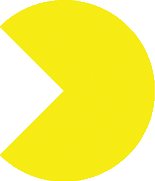
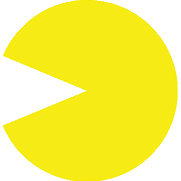
e

diff --git a/PacMan/Form1.cs b/PacMan/Form1.cs
@@ -21,7 +21,8 @@ namespace PacMan
         int Speed = 3;
         int pSpeed = 3;
         int rSpeed = 3;
-        bool u = false; bool d = false; bool l = false; bool r = false;      
+        bool u = false; bool d = false; bool l = false; bool r = false;
+        bool ui = false; bool di = false; bool li = false; bool ri = false;
         bool pu = false; bool pd = false; bool pl = false; bool pr = false;
         bool ru = false; bool rd = false; bool rl = false; bool rr = false;
         bool bu = false; bool bd = false; bool bl = false; bool br = false;
@@ -51,30 +52,93 @@ namespace PacMan
             rx = Blinky.Location.X;
             ry = Blinky.Location.Y;
             #region Animation
-            if (p==3)
+            if (ui == true)
             {
-                Player.Image = Properties.Resources.PacMan2;
+                if (p == 3)
+                {
+                    Player.Image = Properties.Resources.PacManU2;
+                }
+                else if (p == 6)
+                {
+                    Player.Image = Properties.Resources.PacManL1;
+                }
+                else if (p == 9)
+                {
+                    Player.Image = Properties.Resources.PacMan3;
+                }
+                else if (p == 12)
+                {
+                    Player.Image = Properties.Resources.PacManL1;
+                    p = 0;
+                }
             }
-            else if (p == 6)
+            if (di == true)
             {
-                Player.Image = Properties.Resources.PacMan1;
+                if (p == 3)
+                {
+                    Player.Image = Properties.Resources.PacManD2;
+                }
+                else if (p == 6)
+                {
+                    Player.Image = Properties.Resources.PacManL1;
+                }
+                else if (p == 9)
+                {
+                    Player.Image = Properties.Resources.PacMan3;
+                }
+                else if (p == 12)
+                {
+                    Player.Image = Properties.Resources.PacManL1;
+                    p = 0;
+                }
             }
-            else if (p == 9)
+            if (li == true)
             {
-                Player.Image = Properties.Resources.PacMan3;
+                if (p == 3)
+                {
+                    Player.Image = Properties.Resources.PacManL2;
+                }
+                else if (p == 6)
+                {
+                    Player.Image = Properties.Resources.PacManL1;
+                }
+                else if (p == 9)
+                {
+                    Player.Image = Properties.Resources.PacMan3;
+                }
+                else if (p == 12)
+                {
+                    Player.Image = Properties.Resources.PacManL1;
+                    p = 0;
+                }
             }
-            else if (p == 12)
+            if (ri == true)
             {
-                Player.Image = Properties.Resources.PacMan1;
-                p = 0;
+                if (p == 3)
+                {
+                    Player.Image = Properties.Resources.PacManR2;
+                }
+                else if (p == 6)
+                {
+                    Player.Image = Properties.Resources.PacManL1;
+                }
+                else if (p == 9)
+                {
+                    Player.Image = Properties.Resources.PacMan3;
+                }
+                else if (p == 12)
+                {
+                    Player.Image = Properties.Resources.PacManL1;
+                    p = 0;
+                }
             }
             p++;
             #endregion
             #region Movement
-            if (u) { Player.Top -= Speed; }
-            if (d) { Player.Top += Speed; }
-            if (l) { Player.Left -= Speed; }
-            if (r) { Player.Left += Speed; }
+            if (u) { Player.Top -= Speed; ui = true; di = false; li = false; ri = false;}
+            else if (d) { Player.Top += Speed; ui = false; di = true; li = false; ri = false; }
+            else if (l) { Player.Left -= Speed; ui = false; di = false; li = true; ri = false; }
+            else if (r) { Player.Left += Speed; ui = false; di = false; li = false; ri = true; }
             #endregion
             #region Ghost Movement
             PinkGhost();

diff --git a/PacMan/Properties/Resources.Designer.cs b/PacMan/Properties/Resources.Designer.cs
@@ -19,7 +19,7 @@ namespace PacMan.Properties {
     // class via a tool like ResGen or Visual Studio.
     // To add or remove a member, edit your .ResX file then rerun ResGen
     // with the /str option, or rebuild your VS project.
-    [global::System.CodeDom.Compiler.GeneratedCodeAttribute("System.Resources.Tools.StronglyTypedResourceBuilder", "17.0.0.0")]
+    [global::System.CodeDom.Compiler.GeneratedCodeAttribute("System.Resources.Tools.StronglyTypedResourceBuilder", "16.0.0.0")]
     [global::System.Diagnostics.DebuggerNonUserCodeAttribute()]
     [global::System.Runtime.CompilerServices.CompilerGeneratedAttribute()]
     internal class Resources {
@@ -83,29 +83,59 @@ namespace PacMan.Properties {
         /// <summary>
         ///   Looks up a localized resource of type System.Drawing.Bitmap.
         /// </summary>
-        internal static System.Drawing.Bitmap PacMan1 {
-            get {
-                object obj = ResourceManager.GetObject("PacMan1", resourceCulture);
-                return ((System.Drawing.Bitmap)(obj));
-            }
-        }
-        
-        /// <summary>
-        ///   Looks up a localized resource of type System.Drawing.Bitmap.
-        /// </summary>
-        internal static System.Drawing.Bitmap PacMan2 {
-            get {
-                object obj = ResourceManager.GetObject("PacMan2", resourceCulture);
-                return ((System.Drawing.Bitmap)(obj));
-            }
-        }
-        
-        /// <summary>
-        ///   Looks up a localized resource of type System.Drawing.Bitmap.
-        /// </summary>
         internal static System.Drawing.Bitmap PacMan3 {
             get {
                 object obj = ResourceManager.GetObject("PacMan3", resourceCulture);
+                return ((System.Drawing.Bitmap)(obj));
+            }
+        }
+        
+        /// <summary>
+        ///   Looks up a localized resource of type System.Drawing.Bitmap.
+        /// </summary>
+        internal static System.Drawing.Bitmap PacManD2 {
+            get {
+                object obj = ResourceManager.GetObject("PacManD2", resourceCulture);
+                return ((System.Drawing.Bitmap)(obj));
+            }
+        }
+        
+        /// <summary>
+        ///   Looks up a localized resource of type System.Drawing.Bitmap.
+        /// </summary>
+        internal static System.Drawing.Bitmap PacManL1 {
+            get {
+                object obj = ResourceManager.GetObject("PacManL1", resourceCulture);
+                return ((System.Drawing.Bitmap)(obj));
+            }
+        }
+        
+        /// <summary>
+        ///   Looks up a localized resource of type System.Drawing.Bitmap.
+        /// </summary>
+        internal static System.Drawing.Bitmap PacManL2 {
+            get {
+                object obj = ResourceManager.GetObject("PacManL2", resourceCulture);
+                return ((System.Drawing.Bitmap)(obj));
+            }
+        }
+        
+        /// <summary>
+        ///   Looks up a localized resource of type System.Drawing.Bitmap.
+        /// </summary>
+        internal static System.Drawing.Bitmap PacManR2 {
+            get {
+                object obj = ResourceManager.GetObject("PacManR2", resourceCulture);
+                return ((System.Drawing.Bitmap)(obj));
+            }
+        }
+        
+        /// <summary>
+        ///   Looks up a localized resource of type System.Drawing.Bitmap.
+        /// </summary>
+        internal static System.Drawing.Bitmap PacManU2 {
+            get {
+                object obj = ResourceManager.GetObject("PacManU2", resourceCulture);
                 return ((System.Drawing.Bitmap)(obj));
             }
         }

diff --git a/PacMan/Form1.Designer.cs b/PacMan/Form1.Designer.cs
@@ -160,8 +160,8 @@ namespace PacMan
             this.Player.BackColor = System.Drawing.Color.Transparent;
             this.Player.BackgroundImage = ((System.Drawing.Image)(resources.GetObject("Player.BackgroundImage")));
             this.Player.BackgroundImageLayout = System.Windows.Forms.ImageLayout.Zoom;
-            this.Player.Image = global::PacMan.Properties.Resources.PacMan1;
-            this.Player.Location = new System.Drawing.Point(520, 324);
+            this.Player.Image = global::PacMan.Properties.Resources.PacManL1;
+            this.Player.Location = new System.Drawing.Point(432, 253);
             this.Player.Name = "Player";
             this.Player.Size = new System.Drawing.Size(19, 19);
             this.Player.SizeMode = System.Windows.Forms.PictureBoxSizeMode.Zoom;
